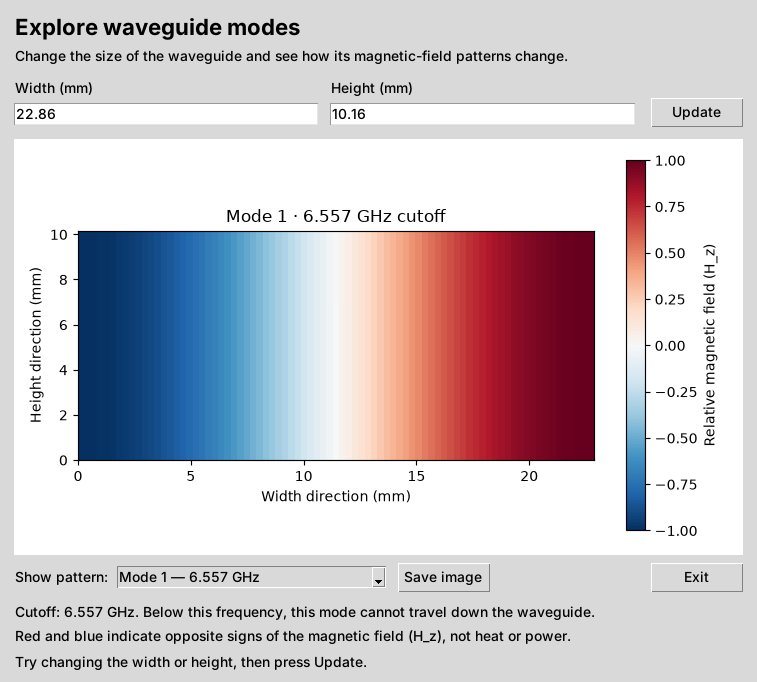
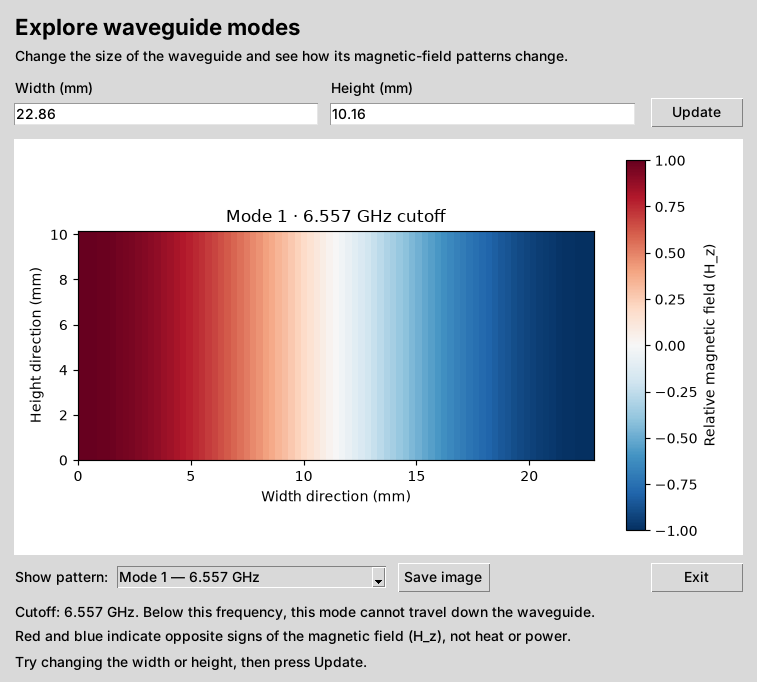
fix(gui): make mode colours identical on every launch (#11)
The GUI solved without a seed and never fixed the eigenvector sign, so red
and blue swapped between launches (mode 1 was positive at the left edge in
3 of 6 fresh launches). solve_for_display now uses a fixed seed and the same
sign rule as the JSON bundle: the first sample with |H_z| > 0.5 is positive.

Cutoffs, controls, layout and the saved-image path are unchanged.

- tests: every mode's anchor sample is positive across four guides (the old
  behaviour fails 5-6 of the tests on every run); GUI fields equal the JSON
  bundle's, sign included.
- Regenerate the README screenshots; update the README caption and
  VALIDATION.md to the new behaviour.

Claude-Session: https://claude.ai/code/session_01BEsvHzNiEZRvM6dEHS4XYR

Changed region(s): [[0.4557, 0.3387, 0.79, 0.6774], [0.0911, 0.3387, 0.4254, 0.6774]]

diff --git a/tests/test_interfaces.py b/tests/test_interfaces.py
@@ -110,6 +110,29 @@ def test_legacy_and_json_cli_agree_with_oracle(width, height, tmp_path):
     assert_same_fields_up_to_sign([m.field for m in gui_modes], fields)
 
 
+@pytest.mark.parametrize(("width", "height"), [*PROBLEMS, pytest.param("10", "10", id="square"),
+                                              pytest.param("40", "7", id="wide")])
+def test_gui_colours_do_not_depend_on_the_solver_sign(width, height):
+    """The red side used to swap between launches (eigenvector sign is arbitrary).
+
+    Every mode must now have its first strong sample positive. Before the fix each
+    mode had an independent 50 % chance, so across these guides a regression
+    passes this test with probability below 0.1 %.
+    """
+    _, modes = solve_for_display(width, height)
+    for mode in modes:
+        flat = mode.field.ravel()
+        assert flat[np.flatnonzero(np.abs(flat) > 0.5)[0]] > 0
+
+
+@pytest.mark.parametrize(("width", "height"), PROBLEMS)
+def test_gui_fields_equal_json_bundle_including_sign(width, height):
+    _, gui_modes = solve_for_display(width, height)
+    bundle = execute_experiment(experiment(width, height)).fields
+    for gui_mode, expected in zip(gui_modes, bundle):
+        np.testing.assert_allclose(gui_mode.field, expected, rtol=0, atol=1e-8)
+
+
 def test_json_bundle_sign_convention_holds():
     fields = execute_experiment(experiment("22.86", "10.16")).fields
     for field in fields:

diff --git a/src/openwave/gui.py b/src/openwave/gui.py
@@ -14,13 +14,29 @@ DEFAULT_MODE_COUNT = 4
 GUI_MESH = (81, 41)
 
 
+# A fixed starting vector makes the solver repeatable, and the sign rule below
+# removes the eigenvector's arbitrary sign, so the same sizes give the same
+# picture on every launch. Same rule as the JSON experiment bundle.
+GUI_SEED = 0
+
+
+def orient_field(field) -> None:
+    """Flip ``field`` in place so its first sample with |value| > 0.5 is positive."""
+    anchor = field.flat[(abs(field.ravel()) > 0.5).nonzero()[0][0]]
+    if anchor < 0:
+        field *= -1
+
+
 def solve_for_display(
     width_text: str, height_text: str
 ) -> tuple[RectangularWaveguide, list]:
     """Validate the two GUI fields and solve exactly what the Update button shows."""
     width, height, count = validate_inputs(width_text, height_text, str(DEFAULT_MODE_COUNT))
     guide = RectangularWaveguide(width * 1e-3, height * 1e-3, *GUI_MESH)
-    return guide, guide.solve_te_modes(count)
+    modes = guide.solve_te_modes(count, seed=GUI_SEED)
+    for mode in modes:
+        orient_field(mode.field)
+    return guide, modes
 
 
 def validate_inputs(

diff --git a/benchmarks/make_readme_figures.py b/benchmarks/make_readme_figures.py
@@ -10,8 +10,8 @@ mesh and colour map the desktop app uses; ``convergence.png`` comes from the
 validation dossier; ``gui.png`` and ``gui.gif`` are screenshots of the actual
 Tk window, which is why ``--gui`` needs Tkinter and a display (a virtual one is
 fine). Under a virtual display there is no window manager, so no title bar.
-The GUI does not fix the eigenvector sign, so red and blue may swap between
-regenerations of gui.png and gui.gif; modes.png applies a fixed sign convention.
+The GUI fixes its solver seed and eigenvector sign, so regenerating gui.png and
+gui.gif gives the same colours; modes.png applies the same sign convention.
 
 Each mode panel is labelled with an analytical TE(m,n) name only after checking
 that the solver's cutoff agrees with that mode's analytical cutoff to 0.1 %.

diff --git a/docs/VALIDATION.md b/docs/VALIDATION.md
@@ -141,10 +141,10 @@ Values are relative cutoff errors against the continuum formula. The figure
 ## 4. Ambiguities a user must know about
 
 **Sign.** Eigenvectors are defined up to sign. The JSON bundle makes the first
-sample with |H_z| > 0.5 positive; the GUI and legacy CLI do not normalize sign. In six fresh launches of the GUI's
-computation (no seed), mode 1 was positive at the left edge three times and
-negative three times, so the colours in the real window can swap between launches.
-Red/blue in a plot is relative sign only.
+sample with |H_z| > 0.5 positive. The GUI now applies the same rule and a fixed
+seed, so its colours are the same on every launch (before this, with no seed,
+mode 1 was positive at the left edge in three of six fresh launches). The legacy
+CLI's plot still does not normalize sign. Red/blue in a plot is relative sign only.
 
 **Indexing.** "Mode k" means the k-th smallest computed eigenvalue. It is not an
 analytical TE(m,n) label. On the 20 × 10.05 mm guide the continuum order is

diff --git a/README.md b/README.md
@@ -15,7 +15,7 @@ No scripting or solver configuration is needed to use the desktop interface.
   <img src="docs/images/gui.gif" alt="The OpenWave desktop window cycling through the first four mode patterns of a 22.86 by 10.16 mm waveguide, with the cutoff frequency shown for each" width="600">
 </p>
 
-<sub>The desktop app, captured from the real window, stepping through its four patterns. Red and blue are opposite signs of the field, not heat or power. Which colour lands on which side can swap each time you launch the app, so only the contrast within one picture matters.</sub>
+<sub>The desktop app, captured from the real window, stepping through its four patterns. Red and blue are opposite signs of the field, not heat or power, and the sign is fixed so that the first strong sample is red, so the same sizes look the same on every launch.</sub>
 
 ## Try it on Linux
 
